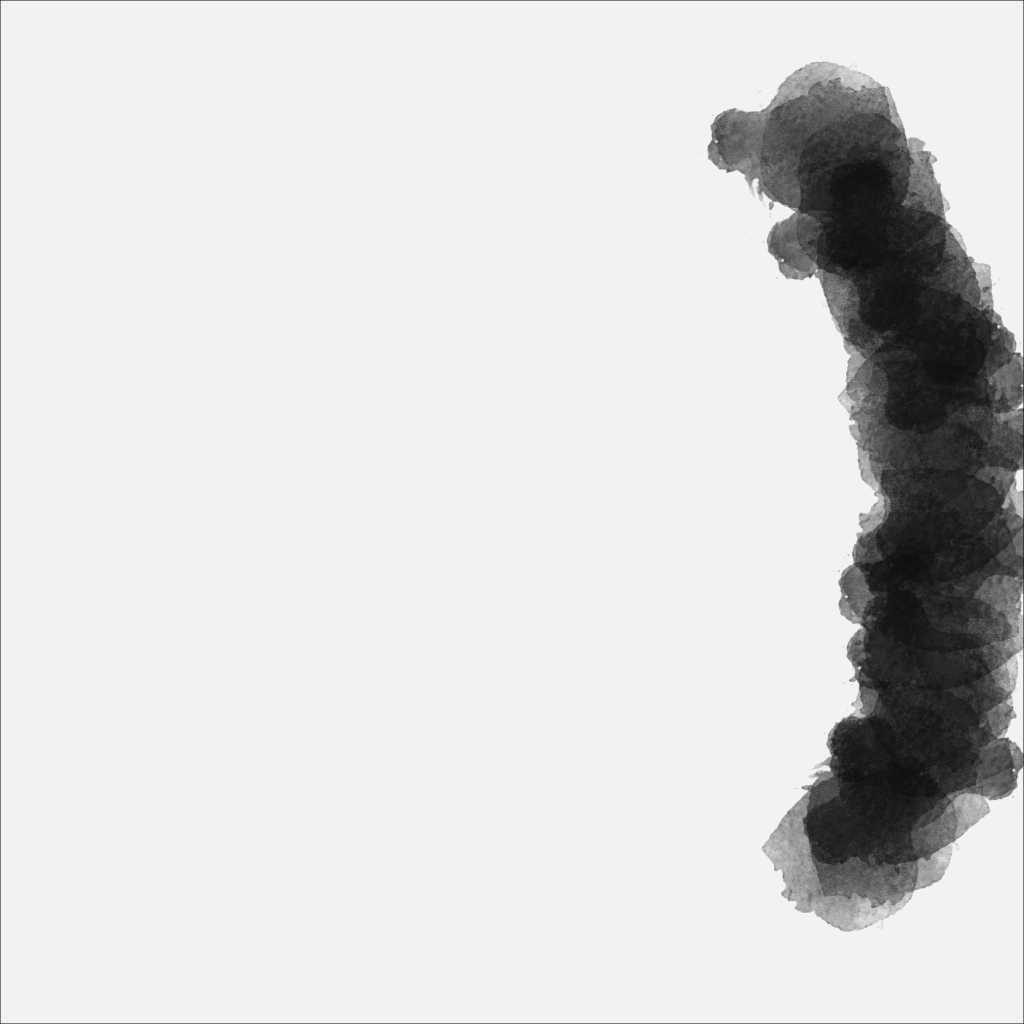
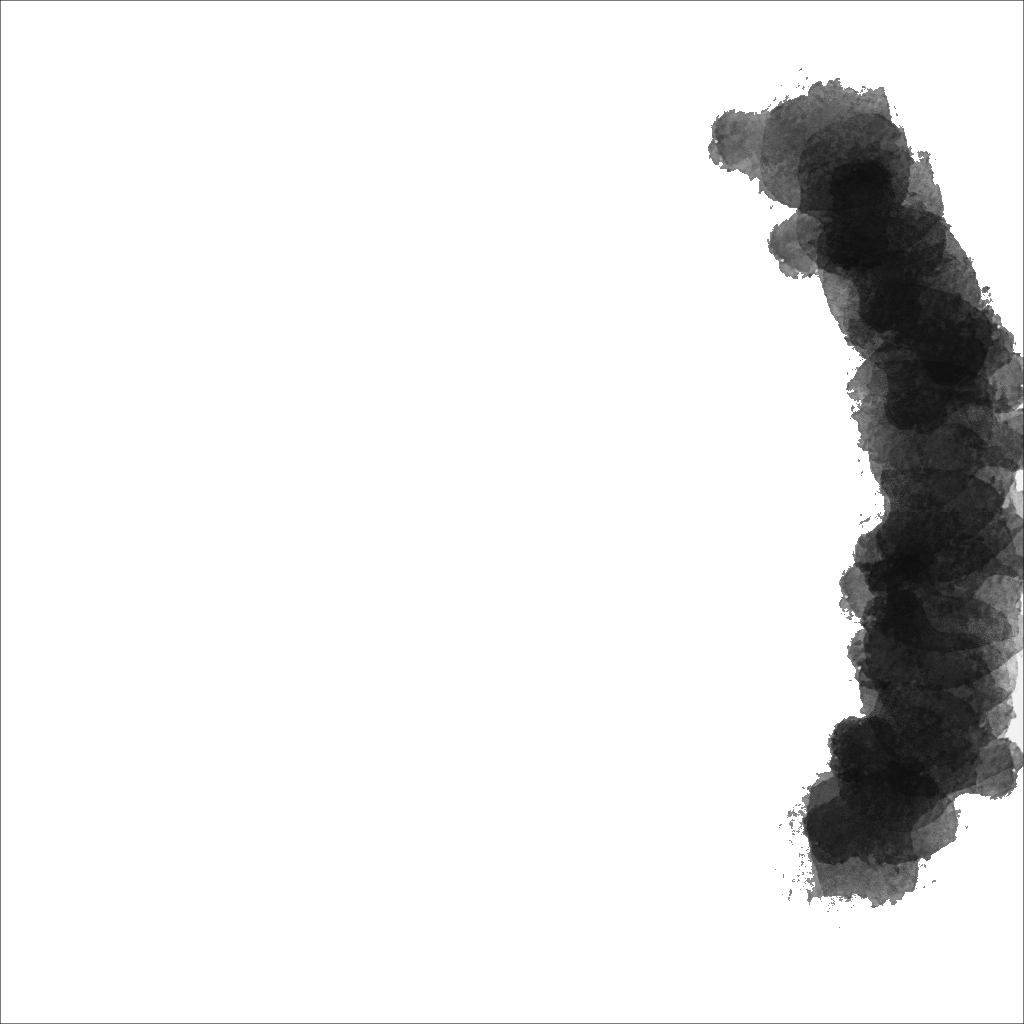
こみっと

diff --git a/DirectXGame/Player.cpp b/DirectXGame/Player.cpp
@@ -359,7 +359,7 @@ void Player::OnCollision(const Enemy* enemy) {
 	// velosity_.y += 1.0f;
 	// velosity_.z += 1.0f;
 
-	 if (IsAttack()) {
+	if (IsAttack()) {
 		return; // 無敵中なら何もしない
 	}
 
@@ -379,13 +379,10 @@ void Player::Initialize(KamataEngine::Model* model, uint32_t textureHandle, Kama
 	worldTransform_.scale_ = {1.0f, 1.0f, 1.0f};
 	worldTransform_.rotation_.y = std::numbers::pi_v<float> / 2.0f;
 
-	
-
 	worldTransformAttack_.Initialize();
 	worldTransformAttack_.translation_ = position;
 	worldTransformAttack_.scale_ = {1.0f, 1.0f, 1.0f};
 	worldTransformAttack_.rotation_.y = std::numbers::pi_v<float> / 2.0f; // 初期角度を90度に設定
-
 }
 
 void Player::PlayerMove() {
@@ -476,9 +473,6 @@ void Player::TurnUpdata() {
 		worldTransform_.rotation_.y = worldTransform_.rotation_.y = Lerp(turnFirstRotationY_, destinationRotationY, t);
 		;
 	}
-
-
-
 }
 
 void Player::WorldPosUpdate(const ColisionMapInfo& info) {
@@ -488,10 +482,7 @@ void Player::WorldPosUpdate(const ColisionMapInfo& info) {
 	worldTransform_.translation_.z += info.velosity_.z;
 }
 
-void Player::BehaviorRootInitialize() {
-	velosity_ = {0.0f, 0.0f, 0.0f};
-	
-}
+void Player::BehaviorRootInitialize() { velosity_ = {0.0f, 0.0f, 0.0f}; }
 
 void Player::BehaviorAttackInitialize() {
 	// カウンター初期化
@@ -507,15 +498,15 @@ void Player::BehaviorAttackInitialize() {
 	attakFase_ = AttakFase::kChage;
 
 	if (lrDirection_ == LRDirection::kRight) {
-	
+
 		correctionTransform.translation_.x = 2.0f;
 
 	} else if (lrDirection_ == LRDirection::kLeft) {
-		
+
 		correctionTransform.translation_.x = -2.0f;
 	}
 
-	   isAttack_ = true; // 攻撃開始時に無敵にする
+	isAttack_ = true; // 攻撃開始時に無敵にする
 }
 
 void Player::ChageUpdate() {
@@ -561,19 +552,15 @@ void Player::AttackUpdate() {
 void Player::AfterglowUpdate() {
 	switch (attakFase_) {
 	case Player::AttakFase::kAfterglow:
-		
+
 		// 余韻動作のスケール変化
-	float t = static_cast<float>(attackParameter_) / kAfterglowTime;
+		float t = static_cast<float>(attackParameter_) / kAfterglowTime;
 		worldTransform_.scale_.z = EaseOut(1.3f, 1.0f, t);
 		worldTransform_.scale_.y = EaseOut(0.7f, 1.0f, t);
 
 		break;
-	
 	}
-
-
 }
-
 
 void Player::BehaviorRootUpdate() {
 
@@ -587,7 +574,7 @@ void Player::BehaviorAttackUpdate() {
 
 	attackParameter_++;
 
-Vector3 attackVelosity = {}; // 初期化
+	Vector3 attackVelosity = {}; // 初期化
 
 	// 攻撃フェーズごとの更新処理
 	switch (attakFase_) {
@@ -608,7 +595,6 @@ Vector3 attackVelosity = {}; // 初期化
 			correctionTransform.translation_.x = -2.0f;
 		}
 
-		
 		break;
 
 	case Player::AttakFase::kAfterglow:
@@ -622,7 +608,6 @@ Vector3 attackVelosity = {}; // 初期化
 	}
 	velosity_ = attackVelosity;
 
-	
 	// フェーズがすべて終わったら元に戻す
 	if (attackParameter_ > kAttackTime + kAfterglowTime) {
 		behaviorRequest_ = Behavior::kRoot;
@@ -631,17 +616,13 @@ Vector3 attackVelosity = {}; // 初期化
 		attakFase_ = AttakFase::kUnKnown;
 
 		isAttack_ = false;
-	
-
 	}
 
-		// トランスフォームの値のコピー
+	// トランスフォームの値のコピー
 	worldTransformAttack_.translation_ = worldTransform_.translation_;
 	// worldTransformAttack_.translation_.x += correctionTransform.translation_.x;
 	worldTransformAttack_.rotation_ = worldTransform_.rotation_;
-
 }
-
 
 void Player::Updata() {
 
@@ -650,18 +631,13 @@ void Player::Updata() {
 	worldTransformAttack_.matWorld_ = MakeAffineMatrix(worldTransformAttack_.scale_, worldTransformAttack_.rotation_, worldTransformAttack_.translation_);
 	worldTransformAttack_.TransferMatrix();
 
-
 	ColisionMapInfo collisionMapInfo;
-	
-
 
 	// 移動処理
-	 if (behavior_ == Behavior::kRoot) {
-	PlayerMove(); // 通常時のみ移動
+	if (behavior_ == Behavior::kRoot) {
+		PlayerMove(); // 通常時のみ移動
 	}
-	 TurnUpdata();
-
-	
+	TurnUpdata();
 
 	/*if (worldTransform_.translation_.y < 2.0f) {
 	    worldTransform_.translation_.y = 2.0f;
@@ -700,12 +676,8 @@ void Player::Updata() {
 
 		BehaviorAttackUpdate();
 
-		
-
 		break;
 	}
-
-	
 
 	collisionMapInfo.velosity_ = velosity_;
 
@@ -733,7 +705,6 @@ void Player::Updata() {
 
 	WorldTrnasformUpdate(worldTransformAttack_);
 	WorldTrnasformUpdate(worldTransform_);
-	
 
 	ImGui::Text("isWall  : %s", collisionMapInfo.isWall ? "true" : "false");
 	ImGui::Text("isGround  : %s", collisionMapInfo.landing ? "true" : "false");
@@ -758,17 +729,14 @@ void Player::TitleUpdata() {
 	WorldTrnasformUpdate(worldTransform_);
 }
 
-void Player::Draw() { 
+void Player::Draw() {
 
-	
 	// 自キャラの描画
-	model_->Draw(worldTransform_, *camera_, textureHandle_); 
-		// 攻撃モデルの描画
+	model_->Draw(worldTransform_, *camera_, textureHandle_);
+	// 攻撃モデルの描画
 	if (attakFase_ == AttakFase::kAttack) {
 		attackModel_->Draw(worldTransformAttack_, *camera_);
 	}
-
-	
 }
 
 void Player::SetPosition(const KamataEngine::Vector3& position) { worldTransform_.translation_ = position; }

diff --git a/DirectXGame/Enemy.cpp b/DirectXGame/Enemy.cpp
@@ -51,7 +51,7 @@ void Enemy::OnCollision(const Player* player) {
 	//敵と自キャラの中間位置にエフェクトを生成
 	KamataEngine::Vector3 effectPos = {
 	    (worldTransform_.translation_.x + player->GetPosition().x) / 2.0f, (worldTransform_.translation_.y + player->GetPosition().y) / 2.0f,
-	    (worldTransform_.translation_.z + player->GetPosition().z) / 2.0f};
+	    (worldTransform_.translation_.z + player->GetPosition().z) /2.0f};
 	gameScene_->CreateHitEffect(effectPos);
 
 }
